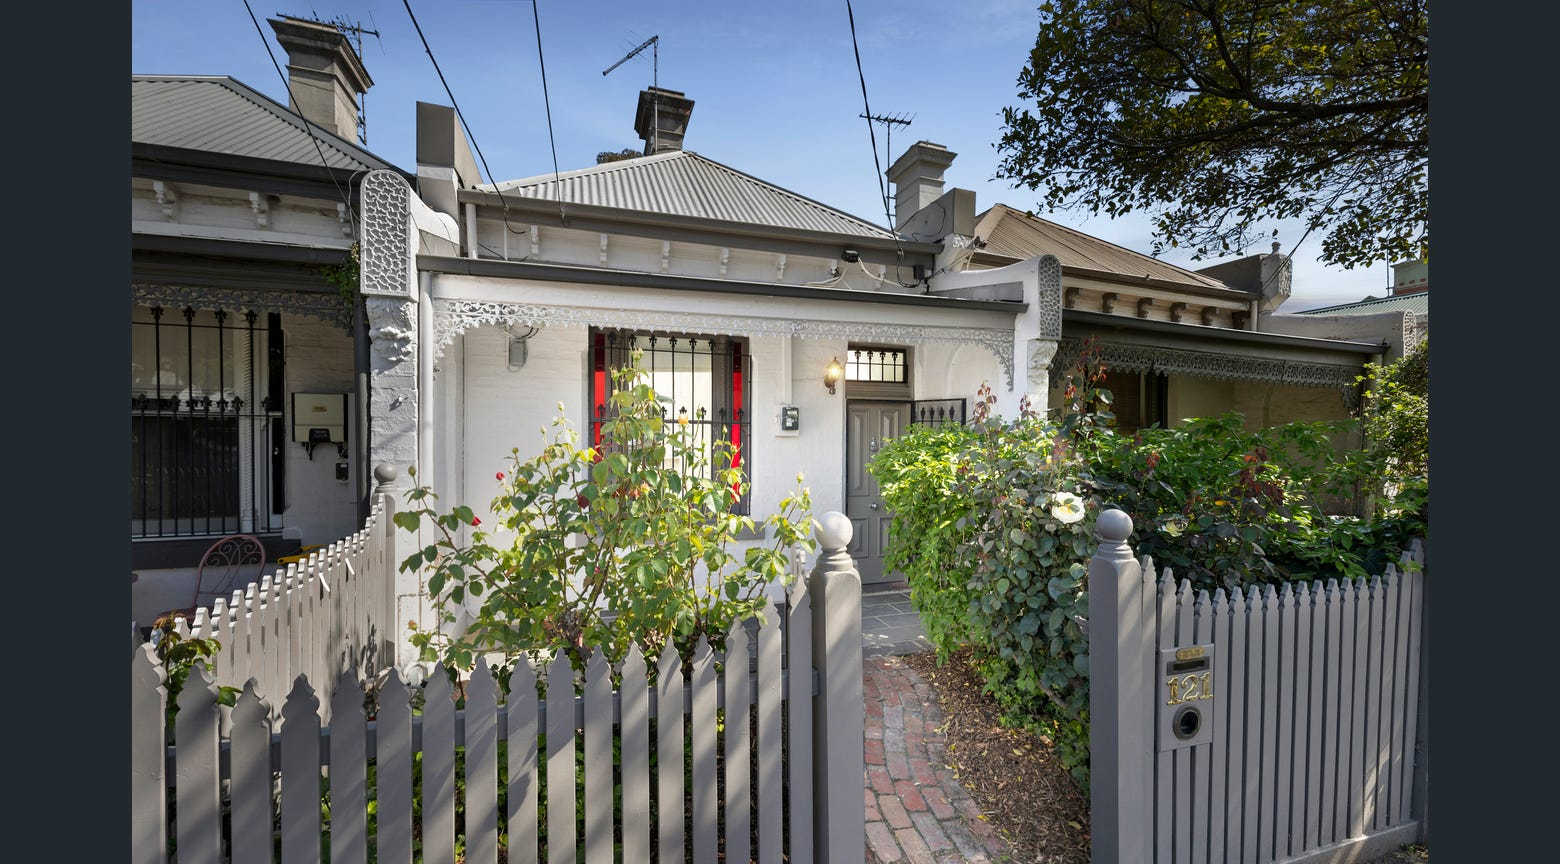
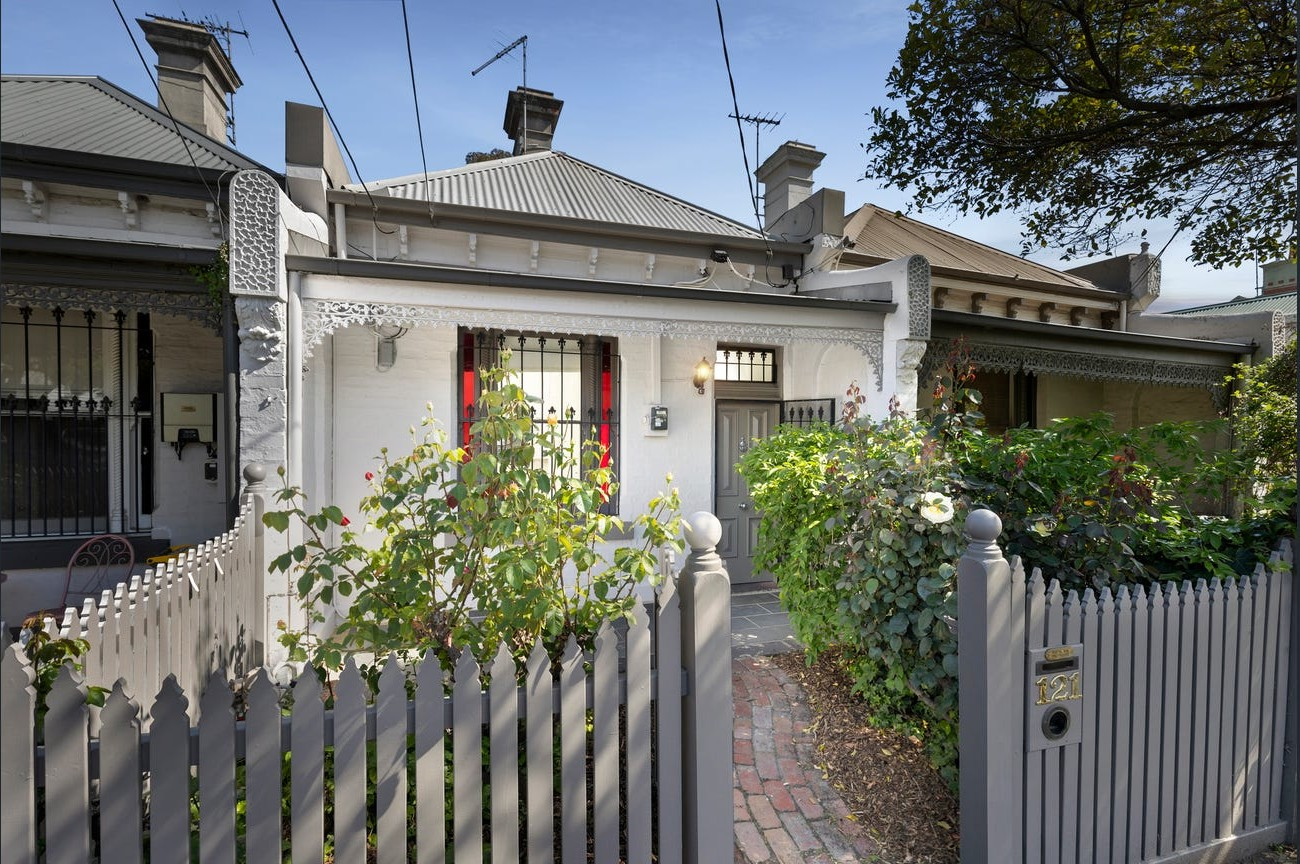
update photos

diff --git a/app/components/Header.tsx b/app/components/Header.tsx
@@ -1,11 +1,9 @@
 "use client";
+import clsx from "clsx";
+import Image from "next/image";
 import { useState } from "react";
 import useLockBodyScroll from "../hooks/useLockBodyScroll";
-import Image from "next/image";
 import NavBar from "./Navbar";
-import clsx from "clsx";
-import Link from "next/link";
-import { FaInstagram } from "react-icons/fa";
 
 const Header = () => {
   const [isOpen, setIsOpen] = useState<boolean>(false);
